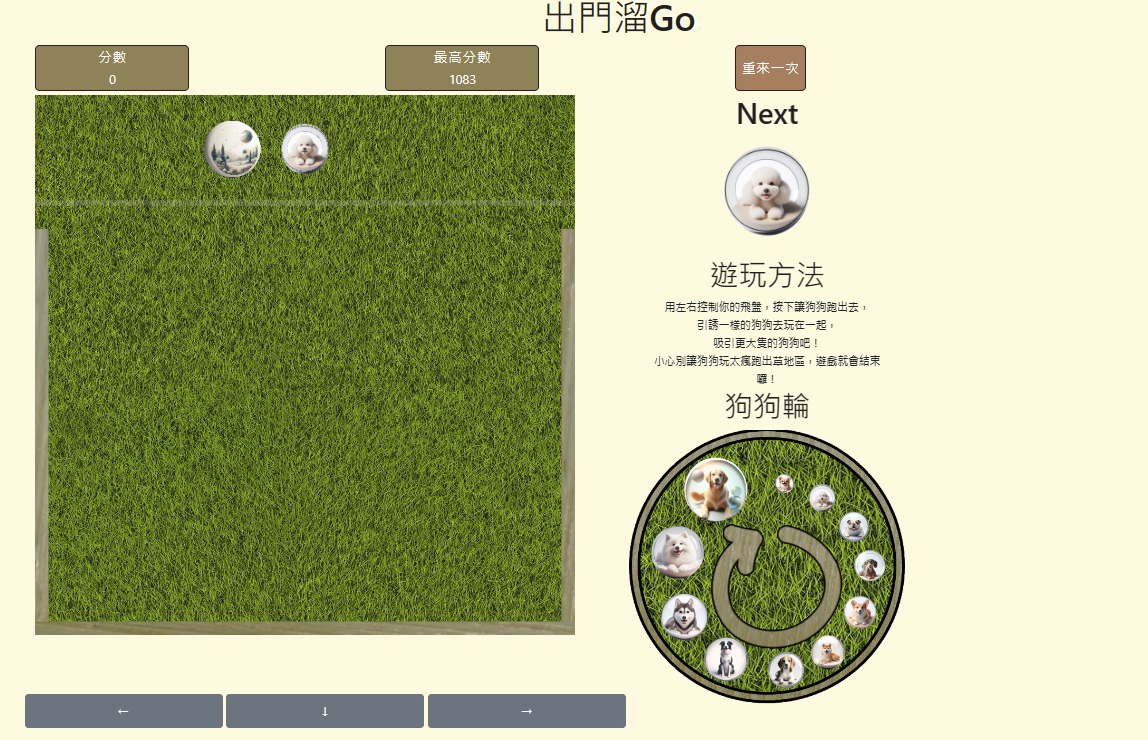
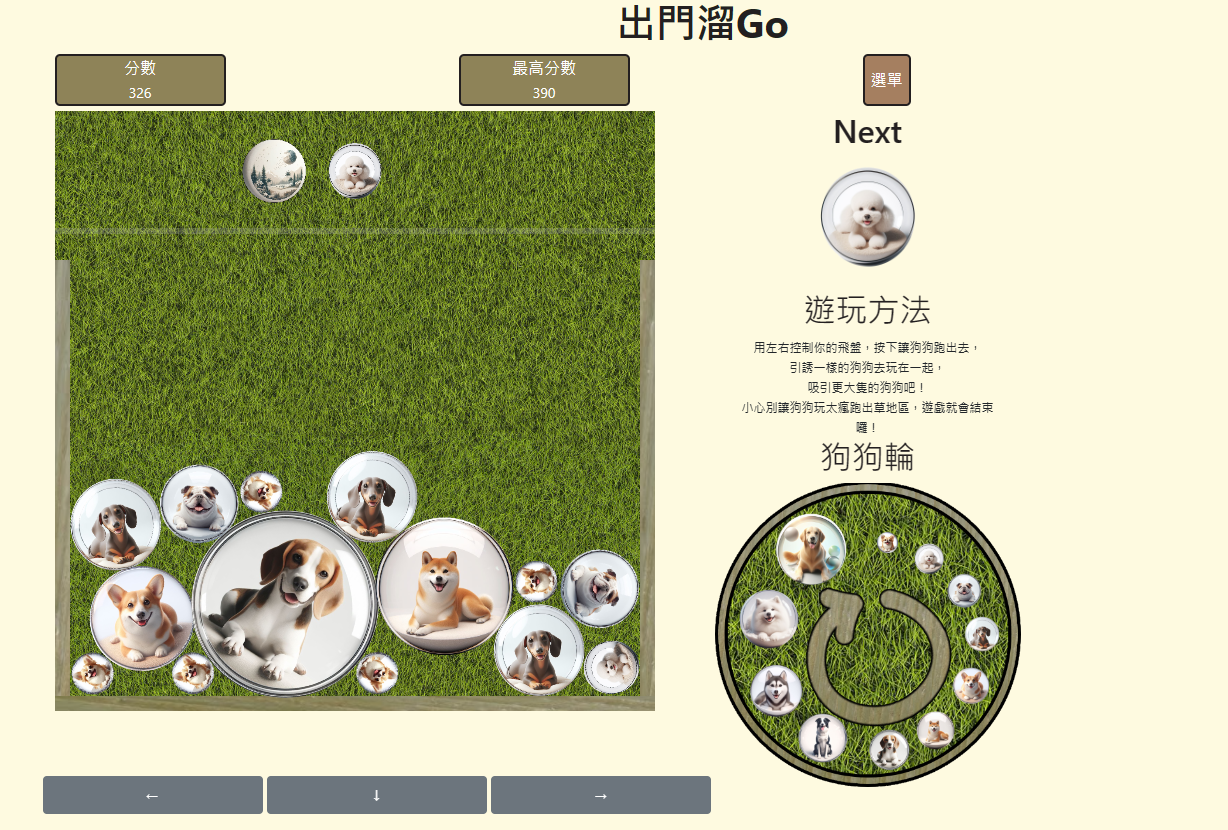
[Readme] Update the readme file

diff --git a/README.md b/README.md
@@ -1,6 +1,7 @@
 # WanWanGame
 
 <img src="./img/readme/sample1.png" width="700"></img>
+<img src="./img/readme/sample2.png" height="475"></img>
 
 ## 介紹
 
@@ -24,6 +25,15 @@
 3. 實際玩遊戲確認圖的大小調整，調整 src/setting.js 這行中的 setting_textureScale，除了第一個值不調整，後面依序為 1 - 11 的貼圖大小。<br>遊戲內球體的大小是固定的，比例在 setting_textureScale 的上一行有寫，調整成與你的圖相符的比例，確保碰撞視覺效果與你的圖一致。
 4. 依據你的爪子圖希望放的位置與大小調整 setting_clawRelativePosition 和 setting_textureScaleClaw 這兩個參數，前者調整爪子相對於球的正中心的位置，如我的飛盤是放在球的左邊，另一個是爪子大小，爪子並不會碰撞，大小只影響顯示
 5. 其他還有一些設定細項可以調，但就要自己讀一下 setting 中的其他英文，如果覺得希望有更多可調整參數或有效果不如預期，可以發 issue 給我
+
+### 詳細的 How - To 改變遊戲文字
+
+<img src="./img/readme/stringMapping.png" width="550"></img>
+
+1. 找到 data/stringMapping.js
+2. 對照上面這張圖，有大多數文字顯示的地方和代碼
+3. 在對應的代碼裡填入你希望顯示的文字，下半部寫不要改的地方不要去動
+4. 儲存後重整就能看見套用
 
 ---
 
